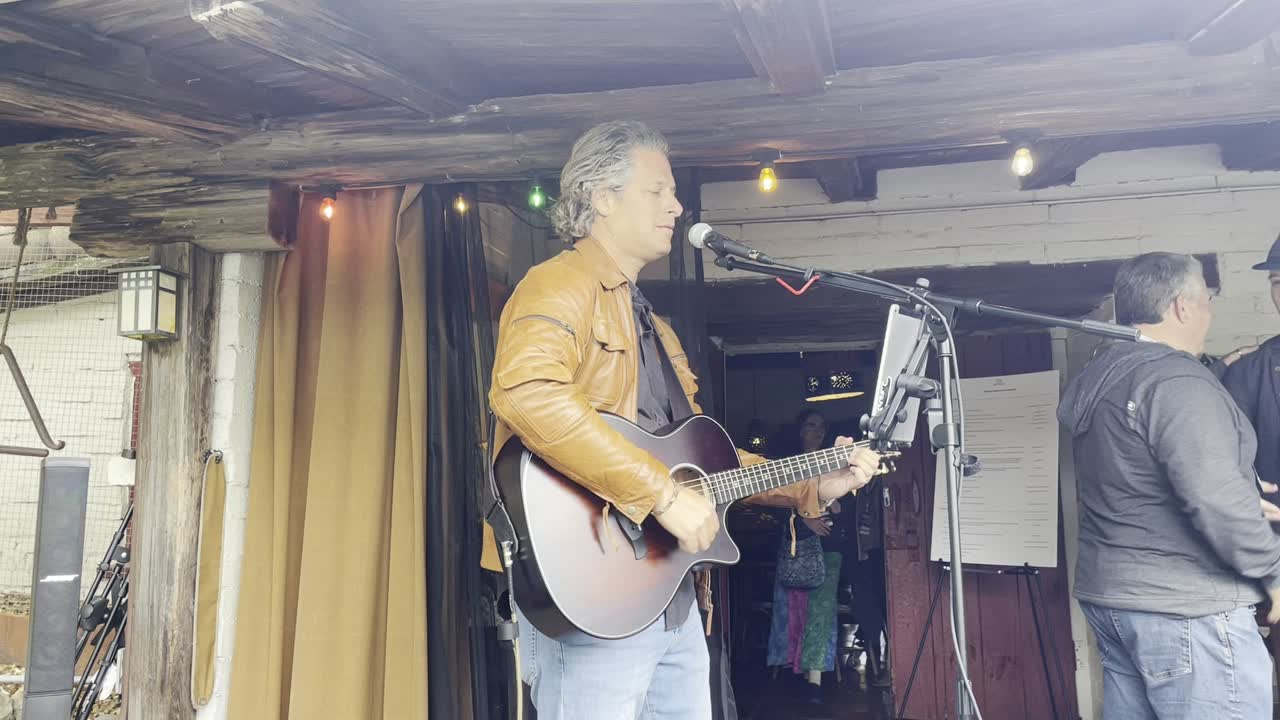
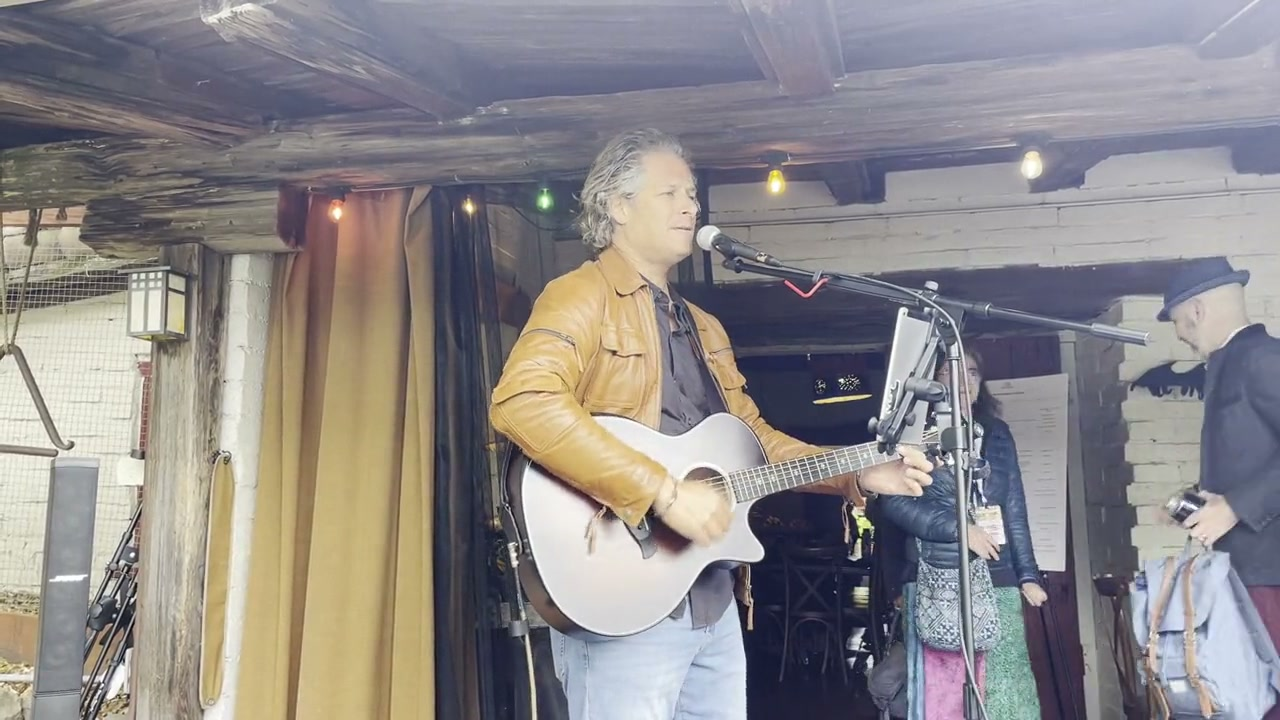
Rename Napa video to Long May You Run — Neil Young; new poster from 0:05

diff --git a/index.html b/index.html
@@ -707,11 +707,11 @@
         <figcaption>Redemption Song &mdash; Bob Marley</figcaption>
       </figure>
       <figure>
-        <video controls preload="metadata" poster="new-videos/napa-poster.jpg">
+        <video controls preload="metadata" poster="new-videos/napa-poster.jpg?v=2">
           <source src="new-videos/napa-corporate.mp4" type="video/mp4" />
           Your browser doesn't support HTML video.
         </video>
-        <figcaption>Napa corporate event</figcaption>
+        <figcaption>Long May You Run &mdash; Neil Young</figcaption>
       </figure>
       <figure>
         <video controls preload="metadata" poster="new-videos/forever-poster.jpg">
